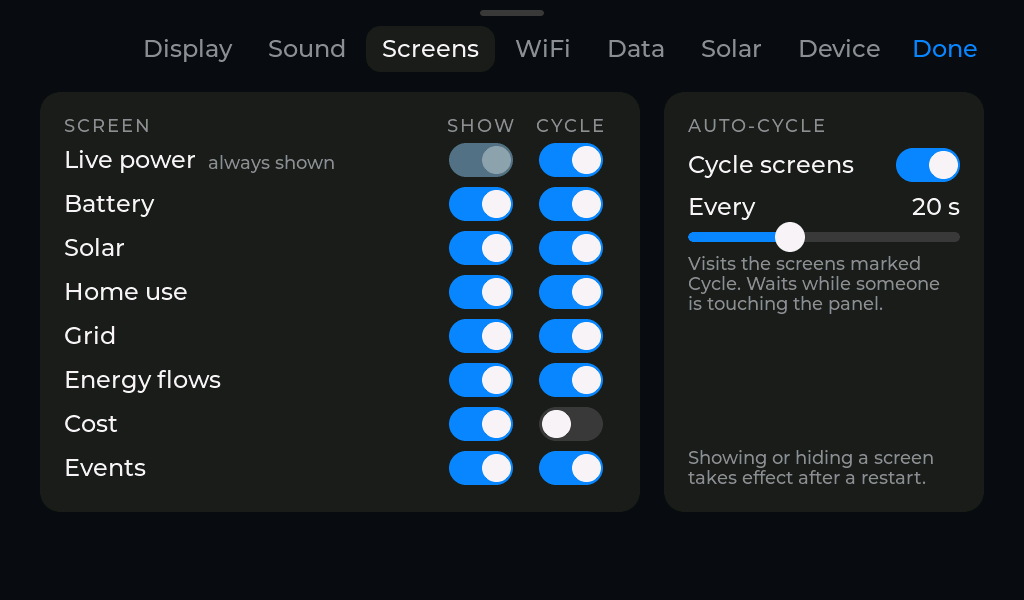
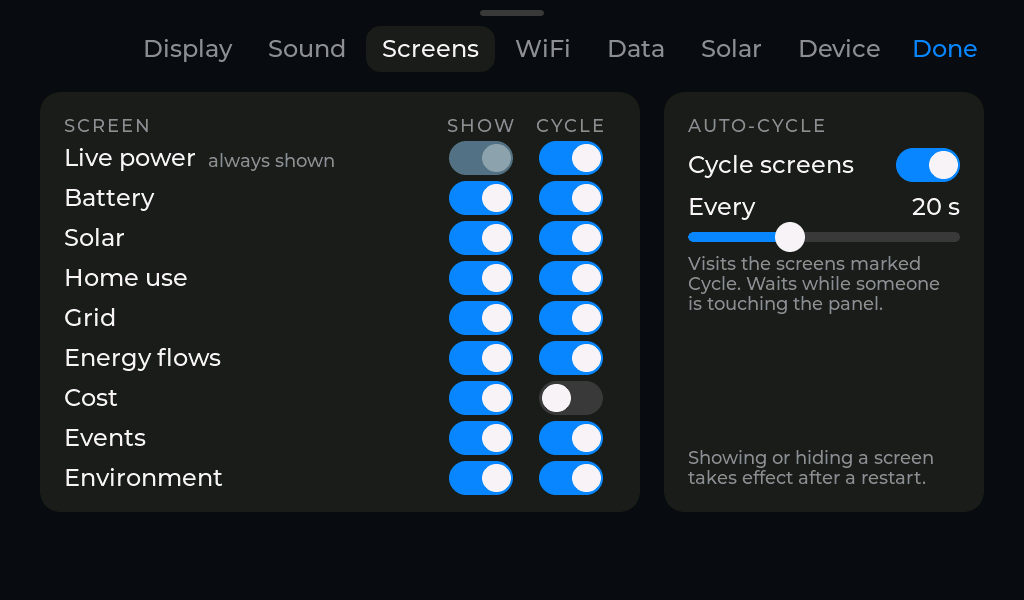
Describe the Environment screen and its setup in the README

diff --git a/README.md b/README.md
@@ -60,6 +60,7 @@ any inverter and battery integration, not only Sigenergy's.
 | **Energy flows** screen | — | ● | — |
 | **Cost** screen | — | ● | — |
 | **Events** screen | — | ● | — |
+| **Environment** screen | ● with an EnViOT Display server | ● with an EnViOT Display server | ● with an EnViOT Display server |
 | Solar forecast | ● calculated on the panel | ● from the server | ● off, from the panel, or from Home Assistant sensors |
 | Today's charts | ◐ from when the panel was switched on | ● the whole day, even after a restart | ◐ restored from Home Assistant's history where it has one; otherwise from switch-on |
 | Step back through past days | — | ● up to 7 days | — |
@@ -90,6 +91,8 @@ untouched.
 | **Grid**: imported and exported today, live frequency and voltage, and the day's import above the line and export below it.<br><br>*Works on all three sources.* Frequency and voltage need an inverter added on Modbus, and are not available from Home Assistant. | **Energy flows**: where today's energy came from and where it went. Sources down the left, destinations down the right, one ribbon per path.<br><br>**SigenStorDisplay Server only.** |
 | <img src="docs/img/cost.png" width="420" alt="Cost"> | <img src="docs/img/events.png" width="420" alt="Events"> |
 | **Cost**: what you have saved today and the unit rate you are paying right now.<br><br>**SigenStorDisplay Server only.** | **Events**: Octopus Saving Sessions, Happy Hours, other free-import periods and Axle events. The live one, or else the next booked, in a card across the top, with the battery's run; the ones before it underneath, newest first, each with its result: how much was cut and the points, how much came in free, or what was exported and earned.<br><br>**SigenStorDisplay Server only**, from version 0.45.0. |
+| <img src="docs/img/environment.png" width="420" alt="Environment"> | |
+| **Environment**: your room and outdoor sensors from an **EnViOT Display** server, up to four. Each card has the temperature on a gauge with the server's cold, ok and hot bands around it, the last 24 hours' lowest and highest, two more readings (humidity and pressure, or whichever the server puts on its cards) and the sensor's battery. A sensor that has gone quiet is greyed out; one with an alert gets a red outline and the alert's name.<br><br>*Works with any source.* Needs an EnViOT Display server, set up under **Data** (see [Environment sensors](#environment-sensors-optional)). | |
 
 Behind the battery, solar, home and grid figures is that day's own curve:
 
@@ -299,6 +302,7 @@ by someone who is there. Switching a sound on plays it, so you know which is whi
 <tr><td><strong>Source</strong> ↻</td><td><strong>Server</strong>, <strong>Modbus</strong> (the default) or <strong>Home Assistant</strong>. Below it are that source's own settings, as described under <strong>Installing</strong>.</td></tr>
 <tr><td><strong>Forget server</strong></td><td><em>Server only.</em> Clears the server address and code.</td></tr>
 <tr><td><strong>Reading: Every</strong></td><td>How often the live figures are read, in seconds. <code>5</code> is the default. The day's charts update every five minutes whatever this says.</td></tr>
+<tr><td><strong>EnViOT</strong> ↻</td><td>An EnViOT Display server for the <strong>Environment</strong> screen, set alongside whichever source you use. <strong>Enter link</strong> takes the whole enrolment link from EnViOT Display's <em>Account → Kiosk devices</em>; <strong>Set server</strong> and <strong>Set code</strong> take its two halves. <strong>Forget</strong> clears both.</td></tr>
 </table>
 
 ### Solar
@@ -350,6 +354,24 @@ address in your router and grant it again.
 
 **Holding BOOT for 5 seconds restarts the panel.** The slide switch on the side cuts power
 outright.
+
+## Environment sensors (optional)
+
+If you also run **EnViOT Display**, the server for EnViOT temperature and humidity sensors,
+the panel can show them on a screen of its own, beside whichever SigenStor source you use.
+
+1. In EnViOT Display, go to **Account → Kiosk devices**, add one (say "Hall panel") and copy
+   its enrolment link.
+2. On the panel, open **Settings → Data**, tap **Enter link** under **EnViOT**, and type or
+   paste the link. Over HTTPS the certificate is checked, as for the SigenStor server; on
+   your own network `http://` to EnViOT Display's address works too.
+3. Restart the panel (**Device → Restart**). The **Environment** screen appears after
+   **Events**; it can be hidden or left out of the cycle under **Screens** like any other.
+
+The panel reads the sensors once a minute and each one's 24-hour range every five minutes.
+The code is read-only: a kiosk can see the readings but change nothing. If EnViOT Display
+refuses the code (the kiosk device was deleted, say), the screen says so and the panel tries
+again every ten minutes.
 
 ## Room sensor (optional)
 
